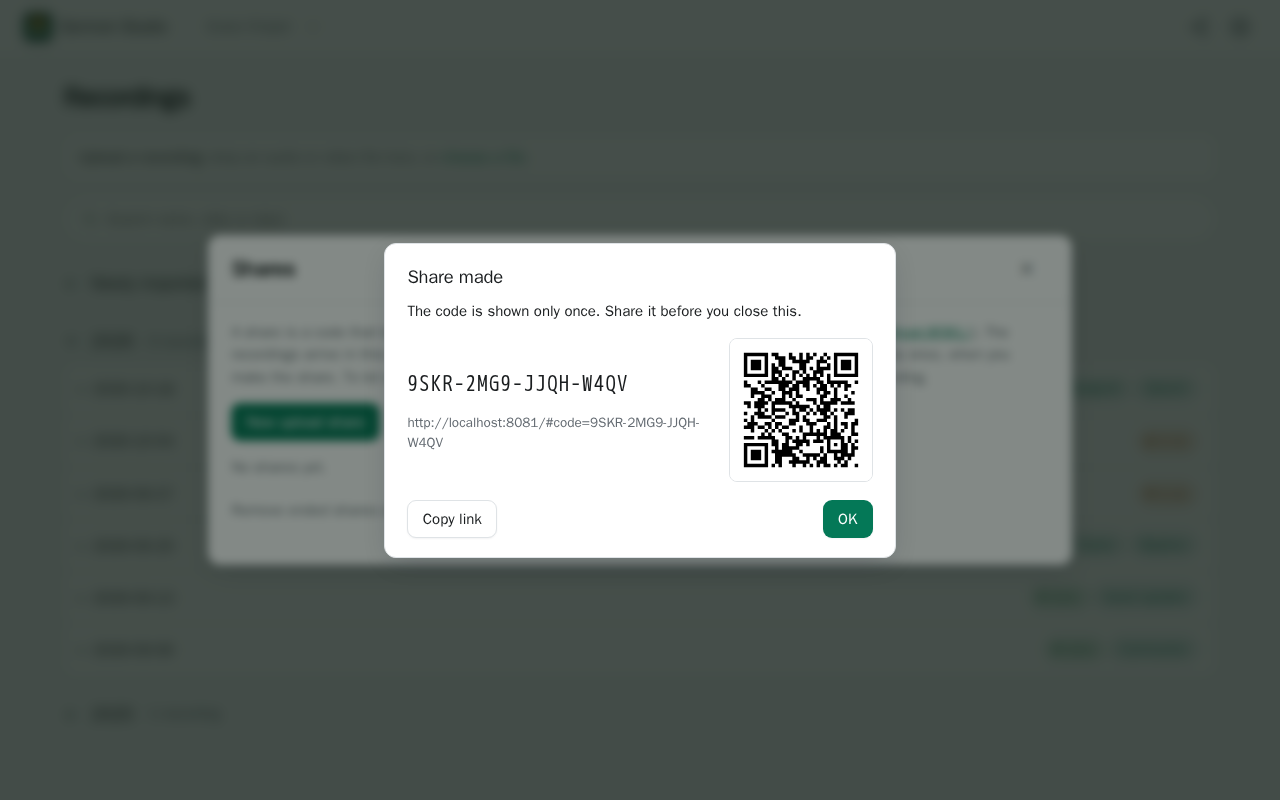
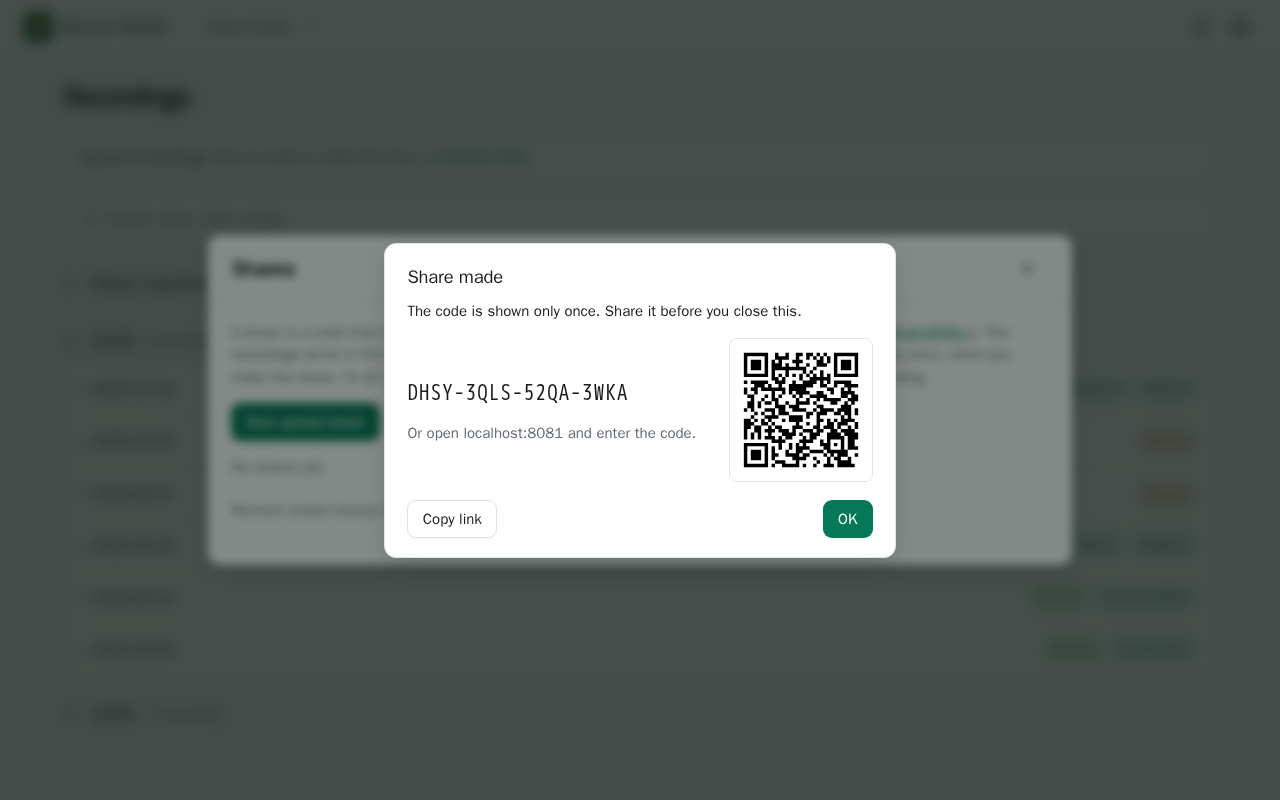
Share made: the share page's short address instead of the link
The long link with the code in it is no longer shown: Copy link, Share and
the QR code give it. Under the code the dialog says where to type it
("Or open share.example.org and enter the code."), and Share's text names
the same short address. The tests read the link from the dialog's
data-link.

Changed region(s): [[0.3125, 0.4688, 0.5312, 0.5625], [0.5625, 0.4375, 0.6875, 0.5938]]

diff --git a/web/static/shares.js b/web/static/shares.js
@@ -69,6 +69,9 @@ function parseExpiry(day, time = '') {
   return new Date(y, m - 1, d, hh, mm, time ? 0 : 59).toISOString();
 }
 
+// shortAddress is the share page's address as said or typed: no https://, no trailing slash.
+const shortAddress = (url) => url.replace(/^https?:\/\//, '').replace(/\/$/, '');
+
 function linkFor(url, code) {
   return url ? url.replace(/\/?$/, '/') + '#code=' + code : '';
 }
@@ -112,9 +115,10 @@ function qrOf(text, label) {
   return svg;
 }
 
-// showCode shows a new share's code and link, once, and the link as a QR code to point a phone at. Copy link copies
-// the link (the code, held, copies the code); Share sends both on with a text (sendButton). download: a download
-// share's; expires: when it ends, if it does.
+// showCode shows a new share's code, once, with the share page's short address to type it at, and the link (with the
+// code in it) as a QR code to point a phone at; the link itself is not shown, only copied (Copy link; the code, held,
+// copies the code) or sent on with a text (Share, sendButton). download: a download share's; expires: when it ends,
+// if it does.
 export async function showCode(url, code, { download = false, expires = '' } = {}) {
   const title = download ? t('Download a sermon') : t('Send recordings');
   const link = linkFor(url, code);
@@ -128,14 +132,14 @@ export async function showCode(url, code, { download = false, expires = '' } = {
   const text = [
     download ? t('Use this link to download the sermon.') : t('Use this link to send recordings.'),
     expires ? t('It works until {date}.', { date: formatDateTime(expires) }) : '',
-    link ? t('Or open {url} and enter the code {code}.', { url: url.replace(/\/?$/, '/'), code }) : t('The code is {code}.', { code }),
+    link ? t('Or open {url} and enter the code {code}.', { url: shortAddress(url), code }) : t('The code is {code}.', { code }),
   ].filter(Boolean).join(' ');
   await alertDialog({ title: t('Share made'), extra: [copy, sendButton({ subject: title, text, url: link }), note], body: [
     t('The code is shown only once. Share it before you close this.'),
-    h('span', { class: 'share-made' },
+    h('span', { class: 'share-made', 'data-link': link || undefined },
       h('span', { class: 'share-texts' },
         h('span', { class: 'share-line' }, codeEl),
-        link ? h('span', { class: 'share-line' }, h('span', { class: 'share-link' }, link)) : ''),
+        link ? h('span', { class: 'share-line muted' }, t('Or open {address} and enter the code.', { address: shortAddress(url) })) : ''),
       link ? qrOf(link, t('QR code of the link')) : ''),
   ] });
 }

diff --git a/web/e2e/tests/web.spec.js b/web/e2e/tests/web.spec.js
@@ -1057,14 +1057,14 @@ test('shares: make a code in the studio, send a recording with the link', async 
   await page.evaluate(() => { navigator.share = async (data) => { window.shared = data; }; });
   await page.getByRole('button', { name: 'Make share' }).click();
   const dialog = page.getByRole('dialog');
-  const link = await dialog.locator('.share-link').textContent();
+  const link = await dialog.locator('.share-made').getAttribute('data-link');
   expect(link).toMatch(/^http:\/\/localhost:8081\/#code=[A-Z2-9]{4}(-[A-Z2-9]{4}){3}$/);
   await expect(dialog.getByRole('img', { name: 'QR code of the link' })).toBeVisible();
   await page.getByRole('dialog', { name: 'Share made' }).screenshot({ path: path.join(shots, 'share-made.png'), animations: 'disabled' });
   // Share sends the link with a text that has the code.
   await dialog.getByRole('button', { name: 'Share', exact: true }).click();
   expect(await page.evaluate(() => window.shared)).toEqual({ title: 'Send recordings', url: link,
-    text: `Use this link to send recordings. It works until 2099-12-31 23:59. Or open http://localhost:8081/ and enter the code ${link.split('=')[1]}.` });
+    text: `Use this link to send recordings. It works until 2099-12-31 23:59. Or open localhost:8081 and enter the code ${link.split('=')[1]}.` });
   // Holding the code copies it; Copy link copies the link.
   await context.grantPermissions(['clipboard-read', 'clipboard-write']);
   const code = dialog.locator('.share-code');
@@ -1198,7 +1198,7 @@ test('download shares: share a finished sermon from its row, download it on the 
   await page.screenshot({ path: path.join(shots, 'share-download-dialog.png') });
   await dialog.getByRole('button', { name: 'Make share' }).click();
   const made = page.getByRole('dialog', { name: 'Share made' });
-  const link = await made.locator('.share-link').textContent();
+  const link = await made.locator('.share-made').getAttribute('data-link');
   expect(link).toMatch(/^http:\/\/localhost:8081\/#code=[A-Z2-9]{4}(-[A-Z2-9]{4}){3}$/);
   await made.getByRole('button', { name: 'OK' }).click();
   // The sermon's row lists its own shares.

diff --git a/web/static/locales.js b/web/static/locales.js
@@ -377,6 +377,7 @@ export const nb = {
   "Use this link to send recordings.": "Bruk denne lenken for å sende opptak.",
   "It works until {date}.": "Den virker til {date}.",
   "Or open {url} and enter the code {code}.": "Eller åpne {url} og skriv inn koden {code}.",
+  "Or open {address} and enter the code.": "Eller åpne {address} og skriv inn koden.",
   "The code is {code}.": "Koden er {code}.",
   "Invitation to {church} in Sermon Studio": "Invitasjon til {church} i Sermon Studio",
   "You are invited to {church} in Sermon Studio, as an admin.": "Du er invitert til {church} i Sermon Studio, som administrator.",
@@ -1305,6 +1306,7 @@ export const nn = {
   "Use this link to send recordings.": "Bruk denne lenkja for å sende opptak.",
   "It works until {date}.": "Ho verkar til {date}.",
   "Or open {url} and enter the code {code}.": "Eller opne {url} og skriv inn koden {code}.",
+  "Or open {address} and enter the code.": "Eller opne {address} og skriv inn koden.",
   "The code is {code}.": "Koden er {code}.",
   "Invitation to {church} in Sermon Studio": "Invitasjon til {church} i Sermon Studio",
   "You are invited to {church} in Sermon Studio, as an admin.": "Du er invitert til {church} i Sermon Studio, som administrator.",

diff --git a/web/e2e/guide/guide.spec.js b/web/e2e/guide/guide.spec.js
@@ -127,7 +127,7 @@ test('settings and a share for people without a login', async ({ page, context }
   await page.locator('input[name=expires]').fill('2026-12-31');
   await page.getByRole('button', { name: 'Make share' }).click();
   const dialog = page.getByRole('dialog');
-  const link = await dialog.locator('.share-link').textContent();
+  const link = await dialog.locator('.share-made').getAttribute('data-link');
   await shot(page, '13-share-made');
   await dialog.getByRole('button', { name: 'OK' }).click();
   await shot(page, '14-shares');
@@ -155,7 +155,7 @@ test('a finished sermon shared for download', async ({ page, context }) => {
   await shot(page, '20-share-download');
   await dialog.getByRole('button', { name: 'Make share' }).click();
   const made = page.getByRole('dialog', { name: 'Share made' });
-  const link = await made.locator('.share-link').textContent();
+  const link = await made.locator('.share-made').getAttribute('data-link');
   await made.getByRole('button', { name: 'OK' }).click();
   const guest = await context.newPage();
   await guest.goto(link);

diff --git a/web/e2e/site-shots/video.spec.js b/web/e2e/site-shots/video.spec.js
@@ -440,10 +440,10 @@ test('the studio in use', async ({ browser }) => {
   await click(dialog.getByRole('button', { name: 'In a month', exact: true }));
   await pause(700);
   await click(dialog.getByRole('button', { name: 'Make share', exact: true }));
-  const link = page.getByRole('dialog').locator('.share-link');
+  const link = page.getByRole('dialog').locator('.share-made');
   await expect(link).toBeVisible();
   await caption('9. Share it', 'A code, a link and a QR code');
-  const address = await link.textContent();
+  const address = await link.getAttribute('data-link');
   await point(page.getByRole('dialog').locator('canvas, svg, img').last());
   await pause(2500);
   await click(page.getByRole('dialog').getByRole('button', { name: 'OK', exact: true }));

diff --git a/web/static/style.css b/web/static/style.css
@@ -445,7 +445,6 @@ body.card-page .downloads button .size { font-weight: 400; opacity: 0.85; }
 .share-made { display: flex; flex-wrap: wrap; align-items: center; gap: 1rem 1.5rem; margin-top: 1rem; }
 .share-texts { display: grid; gap: 0.8rem; flex: 1 1 14rem; min-width: 0; }
 .share-line { display: flex; flex-wrap: wrap; align-items: center; gap: 0.4rem 0.8rem; }
-.share-line .share-link { flex: 1 1 12rem; min-width: 0; font-size: 0.9em; color: var(--muted); }
 .share-qr { width: 9rem; height: 9rem; flex: none; border: 1px solid var(--line); border-radius: var(--radius-inner); }
 .dialog .share-form { margin: 0.6rem 0; }
 .share-form { display: grid; grid-template-columns: 11em minmax(10em, 22em); align-items: center; gap: 0.5rem 0.8rem; }

diff --git a/web/e2e/site-shots/shots.spec.js b/web/e2e/site-shots/shots.spec.js
@@ -143,8 +143,8 @@ for (const [lang, L] of Object.entries(LANGS).filter(([l]) => !only.length || on
     await shot('share');
     await dialog.getByRole('button', { name: T('Make share'), exact: true }).click();
     const made = page.getByRole('dialog');
-    await expect(made.locator('.share-link')).toBeVisible();
-    const link = await made.locator('.share-link').textContent();
+    await expect(made.locator('.share-made')).toBeVisible();
+    const link = await made.locator('.share-made').getAttribute('data-link');
     await made.getByRole('button', { name: T('OK'), exact: true }).click();
     const guest = await context.newPage();
     await guest.goto(link);

diff --git a/web/e2e/tests/transcripts.spec.js b/web/e2e/tests/transcripts.spec.js
@@ -233,7 +233,7 @@ test('transcripts: shared for download with the recording, as text and captions'
   await page.screenshot({ path: path.join(shots, 'share-download-all.png') });
   await dialog.getByRole('button', { name: 'Make share' }).click();
   const made = page.getByRole('dialog', { name: 'Share made' });
-  const link = await made.locator('.share-link').textContent();
+  const link = await made.locator('.share-made').getAttribute('data-link');
   await made.getByRole('button', { name: 'OK' }).click();
   await expect(detail.locator('.recording-shares')).toContainText('all formats + transcript');
 
